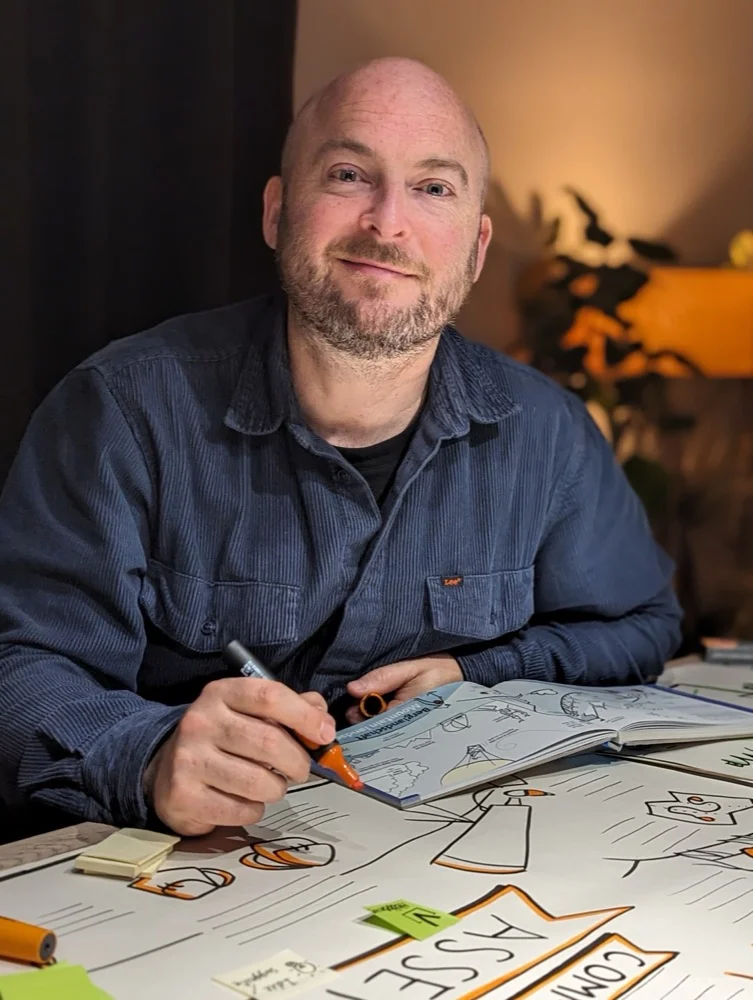
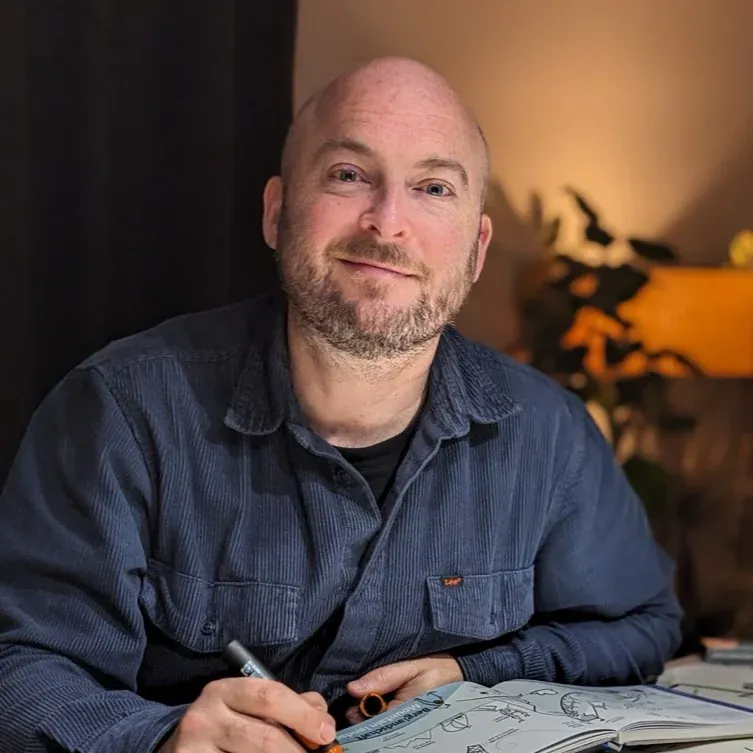
feat(contact): give the contact page a face
- Lead with "Praat met Frederik" and Frederik's polaroid + a
  first-person promise, so the form is addressed to a real person
  instead of an anonymous "we"; rewrite the voice to "ik"
- Success state is now a warm, personal moment (Frederik's photo,
  "Bedankt, {voornaam}!", honest response time) in brand tokens
  instead of a generic green banner
- Optimise the founder photo: crop to the top square actually shown
  (753x753) and re-encode (86KB -> 46KB, -47%); add explicit
  width/height + lazy-load on the success image to avoid layout shift
- Tighten the type scale (drop the redundant handwritten signature
  and the duplicate role label; reuse the lead size for the success
  heading) and balance the shared .photo-polaroid padding
- Cover the recipient intro and personal thank-you with tests

Why: a contact form addressed to no one undermines trust for a
non-tech audience that runs on warmth; showing the person they're
writing to is the cheapest, strongest trust signal we have.

diff --git a/resources/css/app.css b/resources/css/app.css
@@ -450,17 +450,14 @@
   /* Polaroid-style photo frame */
   .photo-polaroid {
     @apply bg-white;
-    padding: 0.5rem 0.5rem 1.5rem;
+    padding: 0.625rem 0.625rem 1.375rem;
     box-shadow: 11px 13px 19px -7px rgba(120, 90, 60, 0.18);
     border: 1px solid rgba(120, 90, 60, 0.1);
     transform: rotate(-2deg);
   }
 
-  .photo-polaroid img {
-  }
-
   .photo-polaroid figcaption {
-    @apply text-xs text-center mt-2;
+    @apply text-xs text-center mt-1.5;
     color: var(--color-text-secondary);
     font-family: 'Nanum Pen Script', cursive;
     font-size: 1.2rem;

diff --git a/tests/Feature/Livewire/SupportContactFormTest.php b/tests/Feature/Livewire/SupportContactFormTest.php
@@ -1,0 +1,55 @@
+<?php
+
+namespace Tests\Feature\Livewire;
+
+use App\Livewire\SupportContactForm;
+use App\Mail\SupportMessage;
+use Illuminate\Foundation\Testing\RefreshDatabase;
+use Illuminate\Support\Facades\Mail;
+use Livewire\Livewire;
+use Tests\TestCase;
+
+class SupportContactFormTest extends TestCase
+{
+    use RefreshDatabase;
+
+    public function test_valid_reason_is_preselected(): void
+    {
+        Livewire::test(SupportContactForm::class, ['reason' => 'feedback'])
+            ->assertSet('reason', 'feedback');
+    }
+
+    public function test_unknown_reason_is_discarded(): void
+    {
+        // Livewire pre-assigns the matching mount param to $reason before mount()
+        // runs; the guard in mount() must reset an unknown slug back to ''.
+        Livewire::test(SupportContactForm::class, ['reason' => 'banana'])
+            ->assertSet('reason', '');
+    }
+
+    public function test_empty_reason_mounts_without_error(): void
+    {
+        // The contact view passes `$reason ?? ''`, so a missing query param arrives
+        // as '' — the typed string property must accept it without a TypeError.
+        Livewire::test(SupportContactForm::class, ['reason' => ''])
+            ->assertSet('reason', '')
+            ->assertOk();
+    }
+
+    public function test_successful_send_shows_a_personal_thank_you_with_first_name(): void
+    {
+        Mail::fake();
+
+        Livewire::test(SupportContactForm::class)
+            ->set('reason', 'feedback')
+            ->set('name', 'Marie Peeters')
+            ->set('email', '[email redacted]')
+            ->set('message', 'Wat een fijn platform!')
+            ->call('send')
+            ->assertSet('sent', true)
+            ->assertSeeHtml('Bedankt, Marie!')
+            ->assertSee('binnen een paar dagen');
+
+        Mail::assertQueued(SupportMessage::class);
+    }
+}

diff --git a/resources/views/contact.blade.php b/resources/views/contact.blade.php
@@ -1,37 +1,34 @@
-<x-layout title="Contact" description="Een vraag, een idee of feedback? Laat van je horen — we lezen elk bericht zelf en bouwen Hartverwarmers verder op wat jij ons vertelt." :full-width="true" :hide-feedback-button="true">
+<x-layout title="Contact" description="Een vraag, een idee of feedback? Je bericht komt rechtstreeks bij Frederik terecht — hij leest alles zelf en bouwt Hartverwarmers verder op wat jij vertelt." :full-width="true" :hide-feedback-button="true">
 
     <section class="bg-[var(--color-bg-cream)]">
         <div class="max-w-6xl mx-auto px-6 py-16">
             <div class="grid grid-cols-1 lg:grid-cols-2 gap-12 items-start">
 
-                {{-- Left: warm invitation --}}
+                {{-- Left: who you're writing to --}}
                 <div>
                     <span class="section-label section-label-hero">Contact</span>
-                    <h1 class="mt-1">Laat van je horen</h1>
+                    <h1 class="mt-1">Praat met Frederik</h1>
                     <p class="text-xl text-[var(--color-text-secondary)] mt-4 max-w-xl" style="font-weight: var(--font-weight-light);">
-                        Een vraag, een idee, of iets wat beter kan? We lezen elk bericht zelf. Vertel het ons — je helpt het platform mee vormgeven.
+                        Een vraag, een idee, of iets wat beter kan? Je bericht komt rechtstreeks bij mij terecht — ik lees alles zelf en bouw Hartverwarmers verder op wat jij me vertelt.
                     </p>
 
-                    <div class="mt-8 space-y-5 max-w-md">
-                        <div class="flex gap-3 items-start">
-                            <span class="w-10 h-10 rounded-full bg-[var(--color-bg-accent-light)] flex items-center justify-center shrink-0">
-                                <flux:icon.pencil-square class="size-5 text-[var(--color-primary)]" />
-                            </span>
-                            <div>
-                                <p class="font-semibold">Deel liever een activiteit?</p>
-                                <a href="{{ route('fiches.create') }}" class="cta-link inline-block">Nieuwe fiche toevoegen</a>
-                            </div>
-                        </div>
-                        <div class="flex gap-3 items-start">
-                            <span class="w-10 h-10 rounded-full bg-[var(--color-bg-accent-light)] flex items-center justify-center shrink-0">
-                                <flux:icon.heart class="size-5 text-[var(--color-primary)]" />
-                            </span>
-                            <div>
-                                <p class="font-semibold">Hartverwarmers steunen?</p>
-                                <p class="text-[var(--color-text-secondary)] text-sm" style="font-weight: var(--font-weight-light);">Kies "Samenwerking of steun" in het formulier.</p>
-                            </div>
+                    {{-- Frederik: a face and a promise, so the form isn't addressed to no one --}}
+                    <div class="mt-8 flex flex-col sm:flex-row gap-6 items-start max-w-xl">
+                        <figure class="photo-polaroid shrink-0" style="transform: rotate(-2deg)">
+                            <img src="/img/about/frederik-vincx.webp" alt="Frederik Vincx" width="160" height="120" class="w-40 aspect-[4/3] object-cover object-top">
+                            <figcaption><strong class="text-[var(--color-text-primary)]">Frederik Vincx</strong></figcaption>
+                        </figure>
+                        <div>
+                            <p class="text-[var(--color-text-secondary)]" style="font-weight: var(--font-weight-light);">
+                                Ik bouwde Hartverwarmers in 2020 en draag het sindsdien vrijwillig. Meestal antwoord ik binnen een paar dagen — soms iets later, want dit gebeurt in vrije uren.
+                            </p>
+                            <a href="https://www.frederikvincx.com/" target="_blank" rel="noopener noreferrer" class="cta-link inline-block mt-4 text-sm">Meer over mij</a>
                         </div>
                     </div>
+
+                    <p class="mt-10 text-sm text-[var(--color-text-secondary)] max-w-xl" style="font-weight: var(--font-weight-light);">
+                        Liever meteen een activiteit delen? <a href="{{ route('fiches.create') }}" class="cta-link inline-block">Nieuwe fiche toevoegen</a>
+                    </p>
                 </div>
 
                 {{-- Right: form --}}

diff --git a/resources/views/livewire/support-contact-form.blade.php b/resources/views/livewire/support-contact-form.blade.php
@@ -1,8 +1,14 @@
 <div>
     @if ($sent)
-        <div class="bg-green-50 border border-green-200 rounded-xl p-6 text-center">
-            <p class="text-lg font-semibold text-green-800">Bedankt voor je bericht!</p>
-            <p class="text-green-700 mt-1">Frederik neemt zo snel mogelijk contact met je op.</p>
+        <div class="text-center py-6">
+            <figure class="photo-polaroid inline-block mb-5" style="transform: rotate(-2deg)">
+                <img src="/img/about/frederik-vincx.webp" alt="Frederik Vincx" width="112" height="112" loading="lazy" class="w-28 aspect-square object-cover object-top">
+                <figcaption><strong class="text-[var(--color-text-primary)]">Frederik</strong></figcaption>
+            </figure>
+            <p class="text-xl font-heading font-bold text-[var(--color-text-primary)]">Bedankt, {{ str($name)->trim()->before(' ') }}!</p>
+            <p class="mt-2 text-[var(--color-text-secondary)] max-w-sm mx-auto" style="font-weight: var(--font-weight-light);">
+                Je bericht is bij mij terecht. Ik lees alles zelf en antwoord meestal binnen een paar dagen — soms iets later, want Hartverwarmers is een vrijwillig project.
+            </p>
         </div>
     @else
         @php($messagePlaceholder = $reason === 'feedback' ? 'Wat vind je nu al fijn? En wat zou je graag beter zien?' : 'Waarmee kunnen we je helpen?')

diff --git a/tests/Feature/Pages/ContactPageTest.php b/tests/Feature/Pages/ContactPageTest.php
@@ -15,8 +15,18 @@ class ContactPageTest extends TestCase
         $response = $this->get('/contact');
 
         $response->assertOk();
-        $response->assertSeeText('Laat van je horen');
+        $response->assertSeeText('Praat met Frederik');
         $response->assertSeeText('Waarover gaat het?');
+    }
+
+    public function test_contact_page_introduces_frederik_as_the_recipient(): void
+    {
+        $response = $this->get('/contact');
+
+        $response->assertOk();
+        $response->assertSeeText('Frederik Vincx');
+        $response->assertSee('/img/about/frederik-vincx.webp');
+        $response->assertSeeText('binnen een paar dagen');
     }
 
     public function test_contact_page_preselects_reason_from_query(): void